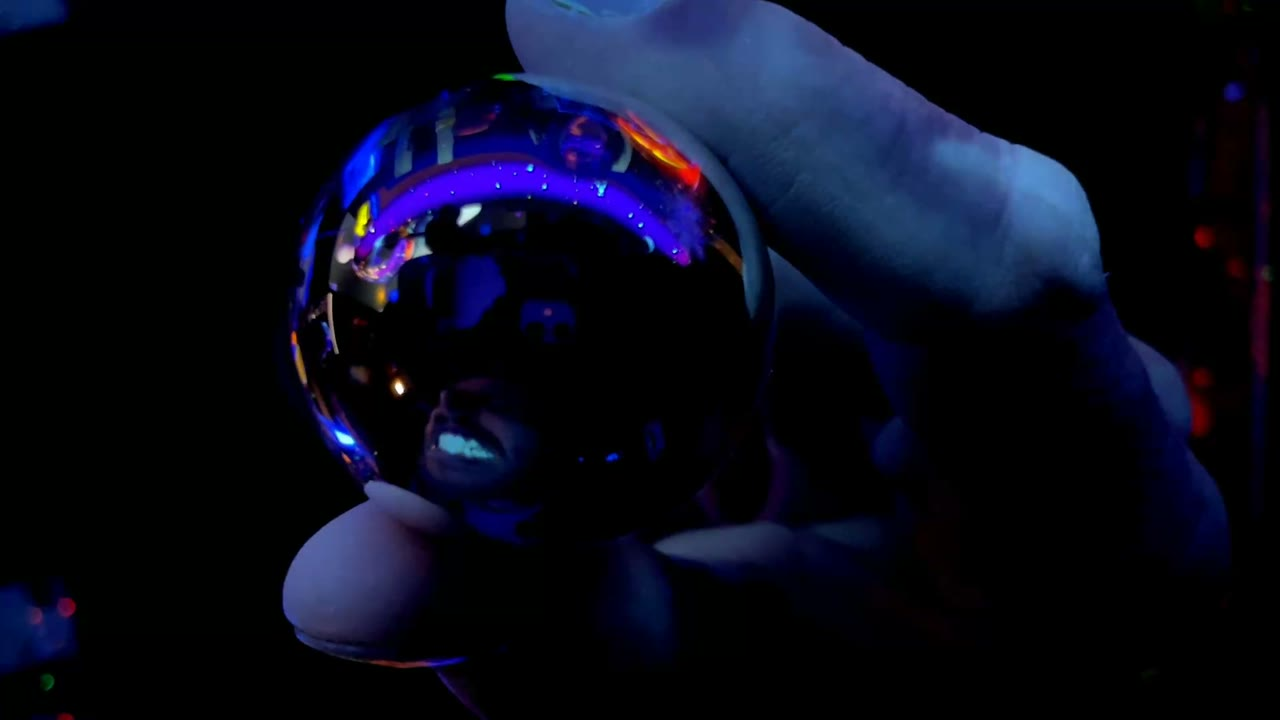
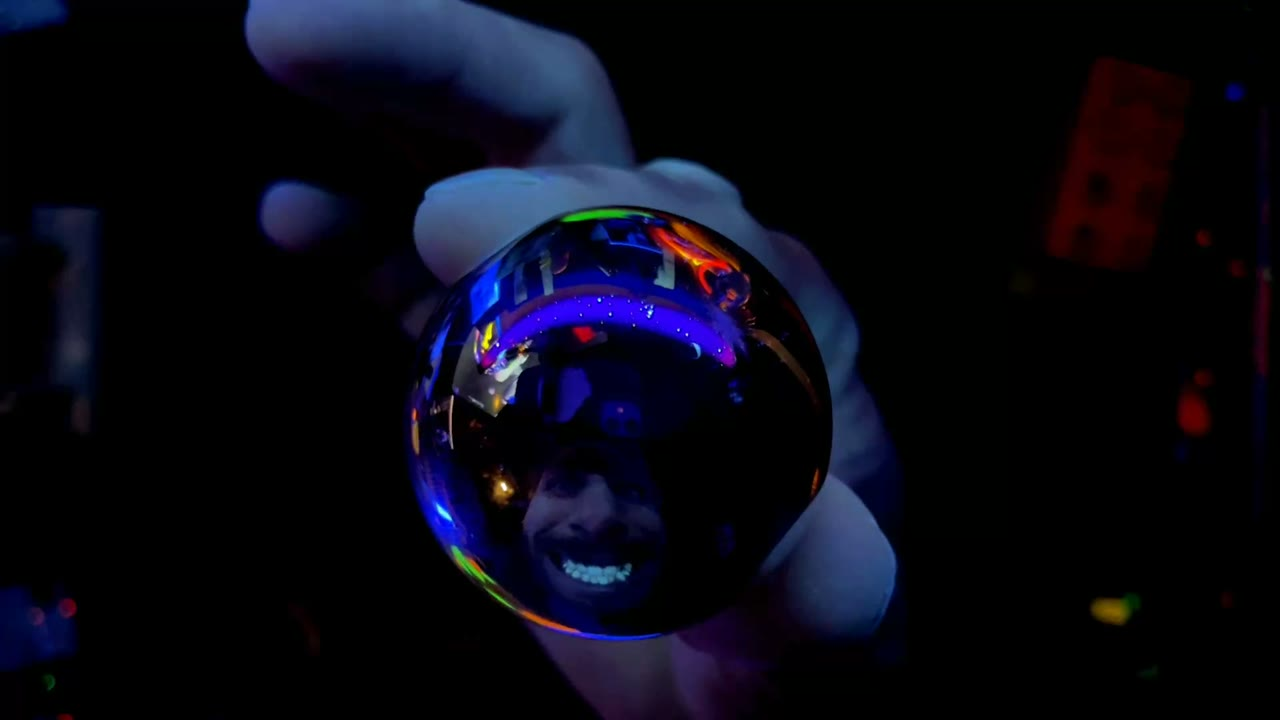
Add the stills picked out in the Styronauten export folder.
They fill Live, Text, and FX with the frames marked for the description.

diff --git a/README.md b/README.md
@@ -42,6 +42,10 @@ Die Leiste oben schaltet mit den Tasten `1` bis `6`. Live, Stoptrick und Draw si
 
 Das Bild der Quelle, zugeschnitten, gezoomt, gespiegelt und gegraded. Die Leertaste nimmt auf und overdubbt. `[` und `]` ändern die Deckkraft des Livebilds über dem Loop. Ein Einfachdruck auf `0` setzt den Bildausschnitt auf 100 Prozent. Ein zweiter Druck kurz danach schaltet alle FX aus und löscht die Textfelder.
 
+![Glaskugel, Livebild aus einem markierten Export](docs/styronauten/live-kristall.jpg)
+
+![Ring und Karte auf dem Lichttisch, ebenfalls aus den markierten Exporten](docs/styronauten/live-ring.jpg)
+
 ### 2 · Stoptrick
 
 Einzelbilder vom Livebild, als eigener kleiner Film über dem Hap-Loop.
@@ -68,7 +72,9 @@ Gezeichnet wird mit der Maus, absolut mit dem Trackpad, oder vom iPad über Luck
 
 Textfelder auf dem Livebild. Pinch skaliert, Drehen rotiert, Ziehen verschiebt. Dieselben Felder liegen auf Syphon und auf dem Beamer, solange sie on air sind. In den Loop gebrannt werden sie nur, wenn Aufnahme für Text an ist. Solange ein Feld den Fokus hat, sind die Programm-Tasten stumm und es wird getippt. `´` zeigt die Felder auch außerhalb des Text-Modus in der Vorschau.
 
-Im Set von DH5 lagen so Zeilen über einer bereits laufenden Collage, ohne den Loop neu aufzunehmen.
+Im Set von DH5 lagen so Zeilen über einer bereits laufenden Collage, ohne den Loop neu aufzunehmen. Hier die Pixel-Schrift aus Draw, die Zettel und die kleine Zeile darunter, alles in einem Loop.
+
+![STYRO und NAUTEN, mit der Zeile darunter](docs/styronauten/text-styro.jpg)
 
 ### 5 · FX
 
@@ -98,11 +104,19 @@ RGB Delay liegt in der Liste und bekommt eine Taste erst, wenn sie zugewiesen wi
 
 ![Slit-Scan, die Bewegung liegt als Streifen im Bild](docs/styronauten/fx-slit.jpg)
 
+Aus den markierten Exporten, dieselbe Bühne:
+
+![Feder mit Echo, die Bewegung bleibt als Nachbild](docs/styronauten/fx-spring.jpg)
+
+![Mirror und Farbe, aus der Mitte heraus](docs/styronauten/fx-bloom.jpg)
+
+![Hand und Feder unter Kaleido](docs/styronauten/fx-hand.jpg)
+
+![Hand mit Nachleuchten](docs/styronauten/fx-burst.jpg)
+
 ### 6 · Output
 
 Zweiter Bildschirm, Vollbild, Ecken zum Ziehen für die Keystone-Korrektur. `R` setzt die Ecken zurück, `I` rückt sie etwas ein. Syphon-Ausgang ist unabhängig davon. `B` oder `9` blenden auf Schwarz. Ein kleines Live-Inset kann auf dem externen Bild liegen, ohne in den Loop zu gehen.
-
-![Live-Gegenstand unter Schwarzlicht, hier eine Glaskugel, bevor FX und Overdub dazukommen](docs/styronauten/live-kristall.jpg)
 
 ## Tasten
 
